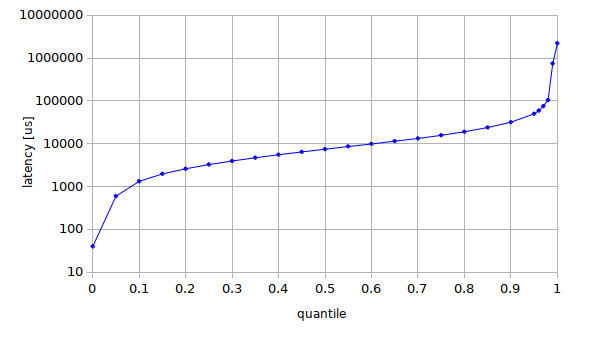
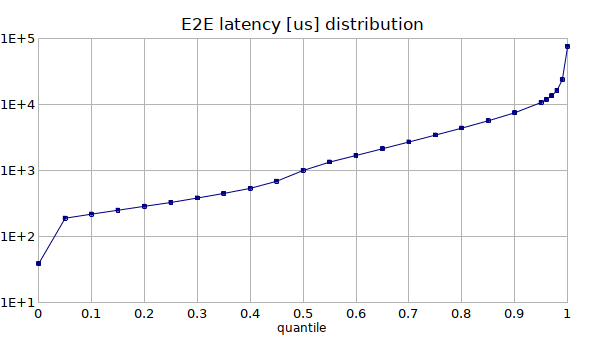
doc update

diff --git a/README.md b/README.md
@@ -72,7 +72,6 @@ java -jar mongoose-base/build/libs/mongoose-4.2.10.jar \
     --run-scenario=src/test/robot/api/storage/data/e2e_latency.js \
     --load-step-id=e2e_latency_test \
     --item-data-size=10KB \
-    --storage-driver-limit-concurrency=10 \
     --load-op-limit-count=100000
 ```
 
@@ -80,23 +79,26 @@ java -jar mongoose-base/build/libs/mongoose-4.2.10.jar \
 
 The tool writes the CSV records to the standard output. Each CSV record has has the following columns:
 1. Item path (may be considered as a file/object/message/event identifier)
-2. Item writing start time offset in microseconds
+2. Item writing start time offset in microseconds (relative, starting from 0)
 3. The calculated end-to-end latency
 
 Example:
 ```csv
 ...
-stream1/bws8pvw9sghq,1556724379276017,1538916
-stream1/5ua3l2kietxd,1556724379276237,1418718
-stream1/81t6larvcuhw,1556724379276402,1420782
-stream1/7i2e1sfbiy0o,1556724379280238,1421182
-stream1/gotspifzf14h,1556724379281785,1421532
-stream1/rufanzc5zugn,1556724379285645,1425138
-stream1/89iv0a4lwj6v,1556724379286654,1422829
-stream1/8v5z8cc9dgd6,1556724379287174,1419372
-stream1/ryfpwg6nxwb8,1556724379287413,1417090
-stream1/gho8ejqhyxe2,1556724379287603,1354413
-stream1/wykisi3nc223,1556724379292403,1352918
+stream1/83t5yxfi12e0,41829867,2751
+stream1/a3obpqb01qh6,41835798,229
+stream1/aydlzqu14n22,41838473,2999
+stream1/5fgdcurymj0q,41841918,805
+stream1/wv1q53bs8l61,41843734,1601
+stream1/lblm3ytmeyu9,41854278,10644
+stream1/36n30r5pa3de,41855355,10879
+stream1/pykghts2izmn,41867068,3371
+stream1/wcmsurgrpht5,41876439,411
+stream1/zhvwrprmontl,41880093,463
+stream1/loxvodkyijpn,41884926,2371
+stream1/7aeq3w3oo7qy,41886162,3798
+stream1/fwexsn3qwa4u,41890030,8396
+stream1/6bchppau0mh6,41891615,7530
 ...
 ```
 
@@ -119,7 +121,9 @@ Example:
 The resulting file may be used to analyze the *end-to-end latency* distribution or temporal profile. The charts below 
 were produced using the spreadsheet processor for the resulting CSV data:
 
-![](example_e2e_distribution.png)
 ![](example_e2e_profile.png)
 
-Note the high latency yield during the first 2 seconds. This is supposed to be the HotSpot intervention.
+The most representative and stable data in the picture above is between 200 seconds offset and 700 seconds offset. This
+range should be used to calculate the E2E latency distribution:
+
+![](example_e2e_distribution.png)
